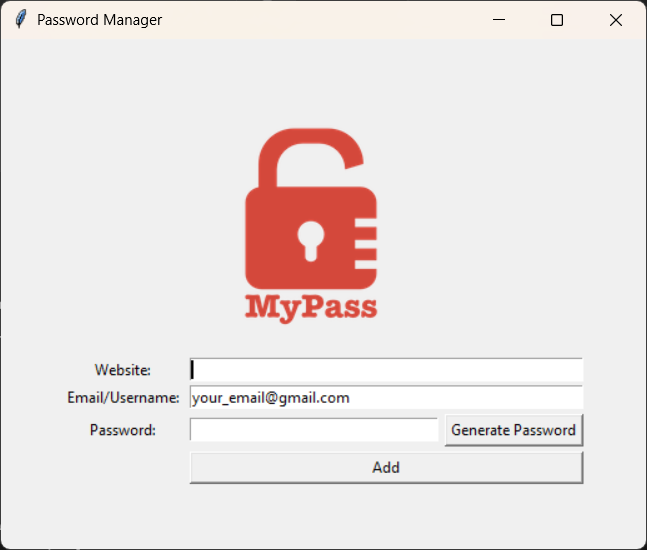
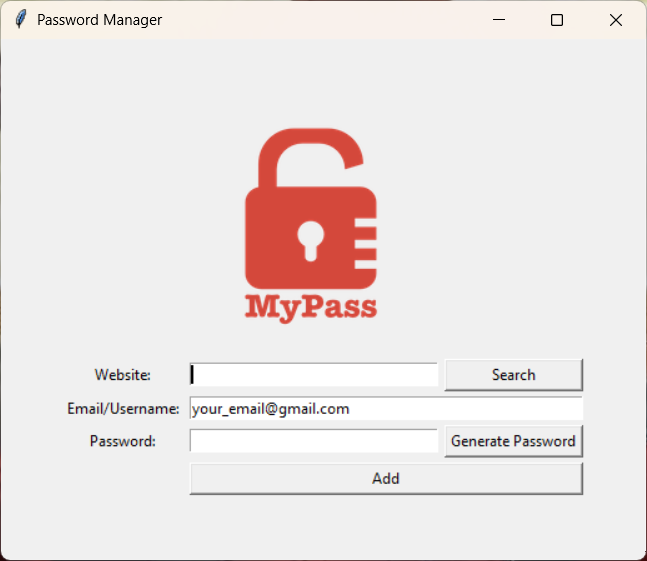
Update the Readme

diff --git a/main.py b/main.py
@@ -59,6 +59,14 @@ def save():
         messagebox.showinfo(title="Oops", message="Please make sure you haven't "
                                                     "left any fields empty.")
     else:
+        is_ok = messagebox.askokcancel(
+            title=website,
+            message=f"These are the details entered:\nUsername: {username}\nPassword: {password}\nIs it ok to save?"
+        )
+
+        if not is_ok:
+            return
+
         try:
             with open("Test_passwords.json", "r") as file:
                 #Read old data

diff --git a/README.md b/README.md
@@ -1,13 +1,13 @@
-# MyPass - Secure Password Manager
+# MyPass - Password Manager
 
 ![Python](https://img.shields.io/badge/Python-3.x-blue?style=for-the-badge&logo=python)
 ![Tkinter](https://img.shields.io/badge/GUI-Tkinter-green?style=for-the-badge)
 ![Pyperclip](https://img.shields.io/badge/Clipboard-Pyperclip-orange?style=for-the-badge)
 ![License](https://img.shields.io/badge/License-MIT-lightgrey?style=for-the-badge)
 
-MyPass is a simple, desktop-based **Password Manager & Generator** built with Python and Tkinter. It helps users create strong randomized passwords, copy them automatically to the clipboard, and store saved login details locally in a text file.
+MyPass is a beginner-friendly desktop password manager built with Python and Tkinter. It can generate strong random passwords, copy generated passwords to the clipboard, save login details locally in a JSON file, and search saved credentials by website name.
 
-> ⚠ This project stores passwords in a local `.txt` file for learning/demo purposes. For production use, password data should be encrypted before storage.
+> ⚠  Security Note: This project stores passwords in a local `.json` file for learning/demo purposes. For production use, password data should be encrypted before storage.
 
 ## 📸 Screenshots
 
@@ -19,53 +19,63 @@ MyPass is a simple, desktop-based **Password Manager & Generator** built with Py
 | --- | --- |
 | <img src="assets/screenshots/empty-fields-validation.png" alt="Empty Fields Validation" width="360"> | <img src="assets/screenshots/save-confirmation.png" alt="Save Confirmation" width="360"> |
 
-### Saved Credentials File
+| Search Result | Missing Data File |
+| --- | --- |
+| <img src="assets/screenshots/search-result.png" alt="Search Result" width="360"> | <img src="assets/screenshots/no-data-file.png" alt="Missing Data File" width="360"> |
 
-![Saved Credentials File](assets/screenshots/saved-credentials-file.png)
+| Website Not Found | Saved Credentials JSON |
+| --- | --- |
+| <img src="assets/screenshots/website-not-found.png" alt="Website Not Found" width="360"> | <img src="assets/screenshots/saved-credentials-json.png" alt="Saved Credentials JSON" width="360"> |
 
 ## ✨ Features
 
-- 🔐 **Strong password generation** using random letters, numbers, and symbols
-- 📋 **Automatic clipboard copying** with `pyperclip`
-- 💾 **Local data storage** in a text file
-- 🖥 **User-friendly Tkinter GUI** with clear input fields and buttons
-- ✅ **Input validation** to prevent saving empty website, username, or password fields
-- 🧾 **Confirmation pop-up** before saving entered credentials
-- 🎯 **Default username/email field** for faster data entry
+- Generate strong randomized passwords using letters, numbers, and symbols.
+- Automatically copy generated passwords to the clipboard with `pyperclip`.
+- Save credentials locally in `Test_passwords.json`.
+- Store data in structured JSON grouped by website name.
+- Search for saved credentials by website.
+- Show a clear message when a website is not found.
+- Show a clear error when the data file does not exist yet.
+- Validate empty website, username, and password fields before saving.
+- Show a confirmation popup before writing credentials to the JSON file.
+- Use a default email/username value to speed up repeated entries.
+- Clear the website and password fields after saving, then return focus to the website field.
 
 ## 🛠 Tech Stack
 
-- **Python** - Core programming language
-- **Tkinter** - Built-in Python GUI library
-- **Pyperclip** - Clipboard management for generated passwords
+- **Python** - core programming language
+- **Tkinter** - built-in GUI library
+- **Pyperclip** - clipboard support for generated passwords
+- **JSON** - local structured credential storage
 
-## ⚙ How it Works
+## ⚙ How It Works
 
 1. Enter the website name and email/username.
-2. Click **Generate Password** to create a strong randomized password.
-3. The generated password is inserted into the password field and copied to your clipboard automatically.
-4. Click **Add** to save the credentials.
-5. MyPass checks that no fields are empty.
-6. A confirmation pop-up displays the entered details before saving.
-7. If confirmed, the credentials are appended to `Test_passwords.txt`.
+2. Click **Generate Password** to create a random password.
+3. The password is inserted into the password field and copied to the clipboard.
+4. Click **Add** to review the entered details in a confirmation popup.
+5. If you confirm, the credentials are saved in `Test_passwords.json`.
+6. If `Test_passwords.json` already exists, the app loads the existing data and updates it.
+7. If the same website name already exists, the saved username and password for that website are replaced with the newest values.
+8. Click **Search** after entering a website name to view saved credentials for that website.
 
 Generated passwords include:
 
 - Uppercase and lowercase letters
 - Numbers
 - Symbols
-- Shuffled character order for better randomness
+- Shuffled character order
 
 ## 📦 Installation
 
-### 1. Clone the repository
+### 1. Clone the Repository
 
 ```bash
 git clone https://github.com/seiffayed/Password_Manager.git
 cd Password_Manager
 ```
 
-### 2. Install the required package
+### 2. Install Requirements
 
 Tkinter is included with most Python installations, but `pyperclip` must be installed manually:
 
@@ -73,7 +83,7 @@ Tkinter is included with most Python installations, but `pyperclip` must be inst
 pip install pyperclip
 ```
 
-### 3. Run the application
+### 3. Run the App
 
 ```bash
 python main.py
@@ -83,36 +93,55 @@ python main.py
 
 ```text
 Password_Manager/
-├── assets/
-│   └── screenshots/
-│       ├── main-window.png
-│       ├── generated-password.png
-│       ├── empty-fields-validation.png
-│       ├── save-confirmation.png
-│       └── saved-credentials-file.png
-├── main.py
-├── logo.png
-├── Test_passwords.txt
-├── README.md
-├── LICENSE
-└── .gitignore
+|-- assets/
+|   `-- screenshots/
+|       |-- main-window.png
+|       |-- generated-password.png
+|       |-- empty-fields-validation.png
+|       |-- save-confirmation.png
+|       |-- search-result.png
+|       |-- no-data-file.png
+|       |-- website-not-found.png
+|       `-- saved-credentials-json.png
+|-- main.py
+|-- logo.png
+|-- Test_passwords.json
+|-- README.md
+|-- LICENSE
+`-- .gitignore
 ```
 
-## 🧪 Validation & Error Handling
+## 🧪 Validation and Error Handling
 
-MyPass includes basic validation to improve reliability:
+MyPass includes simple validation and error handling:
 
 - If the website, username, or password field is empty, the app displays an error message.
 - Before saving, the app shows a confirmation dialog so users can review the entered credentials.
-- After a successful save, the input fields are cleared and the default username placeholder is restored.
+- If the user searches without entering a website, the app asks for a website name.
+- If the user searches before any JSON data file exists, the app shows a missing data file error.
+- If the searched website does not exist in the JSON data, the app shows a not-found message.
+- After a successful save, the website and password fields are cleared.
 
-## 🔒 Security Note
+## Data Format
 
-This project is intended as a beginner-friendly Python GUI project. Since credentials are stored in plain text, avoid using it for real accounts unless encryption or a secure database is added.
+Saved credentials are stored in `Test_passwords.json` using this structure:
+
+```json
+{
+  "Amazon": {
+    "username": "your_email@gmail.com",
+    "password": "(&e9rDJKR3xac*(75"
+  },
+  "Gmail": {
+    "username": "your_email@gmail.com",
+    "password": "JL*7bnA!w21BJK"
+  }
+}
+```
 
 ## 🎓 Credits
 
-This project is a part of the **"100 Days of Code: The Complete Python Pro Bootcamp"**.
+This project is part of the **100 Days of Code: The Complete Python Pro Bootcamp** learning path.
 
 ## 📄 License
 
@@ -120,4 +149,4 @@ This project is licensed under the MIT License. See the `LICENSE` file for detai
 
 ## 🙌 Author
 
-Built by **SeiF Fayed** as a Python Tkinter project for managing and generating passwords locally.
+Built by **SeiF Fayed** as a Python Tkinter project for managing, generating, saving, and searching passwords locally.
